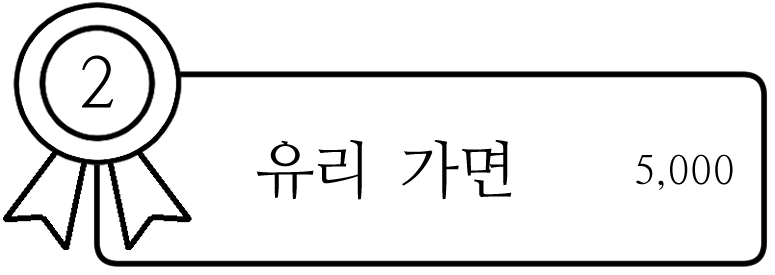
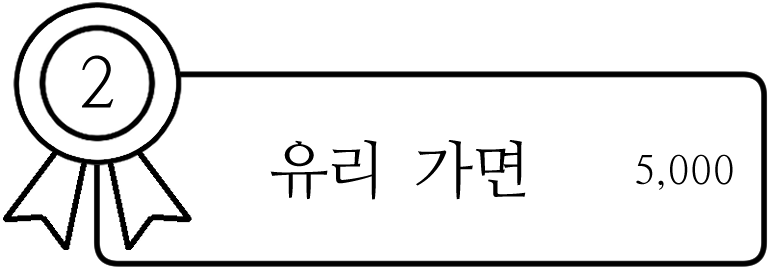
.

Changed region(s): [[0.3097, 0.4945, 0.4955, 0.7273], [0.5265, 0.4945, 0.6813, 0.7273]]

diff --git a/CSS/ranking.css b/CSS/ranking.css
@@ -50,13 +50,52 @@
 
 
 /* 메인 사각형 안 */
-.medal{
+.medal1, .medal2, .medal3, .medal4, .medal5, .medal6, .medal7, .medal8, .medal9, .medal10{
     width: 30em;
     height: 10.4em;
-    margin-top: 6em;
-    left: 0em;
-    position: relative;
+    left: center;
+    position: absolute;
     z-index: 8;
+}
+
+.medal1{
+    margin-top: 6em;
+}
+
+.medal2{
+    margin-top: 17em;
+}
+
+.medal3{
+    margin-top: 28em;
+}
+
+.medal4{
+    margin-top: 39em;
+}
+
+.medal5{
+    margin-top: 50em;
+}
+
+.medal6{
+    margin-top: 61em;
+}
+
+.medal7{
+    margin-top: 72em;
+}
+
+.medal8{
+    margin-top: 83em;
+}
+
+.medal9{
+    margin-top: 94em;
+}
+
+.medal10{
+    margin-top: 105em;
 }
 
 /* 폰트 */
@@ -86,7 +125,7 @@
 .font3-1{
     font-family: 나눔명조;
     font-size: 1rem;
-    left: 40em;
+    left: 39.6em;
     top: 4.5em;
     display: inline;
     position: absolute;
@@ -216,6 +255,16 @@ input[id="menuicon"]:checked + label + div {
         left: 18.2em;
         top: 4.5em;
     }
+
+    .font3-1{
+        left: 34em;
+        top: 4.5em;
+    }
+    
+    .font3-2{
+        left: 43em;
+        top: 4.5em;
+    }
 }
 
 @media (max-width: 1290px){
@@ -234,6 +283,11 @@ input[id="menuicon"]:checked + label + div {
         top: 2em;
     }
 
+    .medal1, .medal2, .medal3, .medal4, .medal5, .medal6, .medal7, .medal8, .medal9, .medal10{
+        width: 26em;
+        height: auto;
+    }
+
     .font1{
         left: 7.6em;
     }
@@ -243,6 +297,8 @@ input[id="menuicon"]:checked + label + div {
         left: 16.7em;
         top: 4.5em;
     }
+
+    
 
 }
 
@@ -281,6 +337,16 @@ input[id="menuicon"]:checked + label + div {
         left: 15.3em;
         top: 4.5em;
     }
+
+    .font3-1{
+        left: 32em;
+        top: 4.5em;
+    }
+    
+    .font3-2{
+        left: 41em;
+        top: 4.5em;
+    }
     
 }
 
@@ -316,6 +382,16 @@ input[id="menuicon"]:checked + label + div {
     .font2{
         font-size: 1.7rem;
         left: 14.5em;
+        top: 4.5em;
+    }
+
+    .font3-1{
+        left: 30em;
+        top: 4.5em;
+    }
+    
+    .font3-2{
+        left: 38em;
         top: 4.5em;
     }
 }
@@ -356,6 +432,16 @@ input[id="menuicon"]:checked + label + div {
         top: 4.5em;
     }
 
+    .font3-1{
+        left: 28em;
+        top: 4.5em;
+    }
+    
+    .font3-2{
+        left: 36.5em;
+        top: 4.5em;
+    }
+
 }
 
 @media (max-width: 980px){
@@ -383,6 +469,11 @@ input[id="menuicon"]:checked + label + div {
         top: 5em;
     }
 
+    .medal1, .medal2, .medal3, .medal4, .medal5, .medal6, .medal7, .medal8, .medal9, .medal10{
+        width: 24em;
+        height: auto;
+    }
+
     .font1{
         font-size: 3.5rem;
         left: 6.3em;
@@ -392,6 +483,16 @@ input[id="menuicon"]:checked + label + div {
         font-size: 1.5rem;
         left: 13.5em;
         top: 4.9em;
+    }
+
+    .font3-1{
+        left: 25.7em;
+        top: 4.5em;
+    }
+    
+    .font3-2{
+        left: 33em;
+        top: 4.5em;
     }
 }
 
@@ -428,6 +529,16 @@ input[id="menuicon"]:checked + label + div {
         font-size: 1.5rem;
         left: 11em;
         top: 4.9em;
+    }
+
+    .font3-1{
+        left: 24em;
+        top: 4.5em;
+    }
+    
+    .font3-2{
+        left: 30.7em;
+        top: 4.5em;
     }
 
     input[id="menuicon"] + label{
@@ -487,6 +598,16 @@ input[id="menuicon"]:checked + label + div {
         left: 11.6em;
         top: 5.5em;
     }
+
+    .font3-1{
+        left: 21.5em;
+        top: 4.5em;
+    }
+    
+    .font3-2{
+        left: 29em;
+        top: 4.5em;
+    }
 }
 
 @media (max-width: 700px){
@@ -514,6 +635,11 @@ input[id="menuicon"]:checked + label + div {
         top: 6em;
     }
 
+    .medal1, .medal2, .medal3, .medal4, .medal5, .medal6, .medal7, .medal8, .medal9, .medal10{
+        width: 22em;
+        height: auto;
+    }
+
     .font1{
         font-size: 2.6rem;
         left: 5.3em;
@@ -524,6 +650,16 @@ input[id="menuicon"]:checked + label + div {
         font-size: 1.3rem;
         left: 8.9em;
         top: 5.5em;
+    }
+
+    .font3-1{
+        left: 18.5em;
+        top: 4.5em;
+    }
+    
+    .font3-2{
+        left: 25.3em;
+        top: 4.5em;
     }
 }
 
@@ -563,6 +699,16 @@ input[id="menuicon"]:checked + label + div {
         left: 7.1em;
         top: 5.5em;
     }
+
+    .font3-1{
+        left: 16em;
+        top: 4.5em;
+    }
+    
+    .font3-2{
+        left: 23em;
+        top: 4.5em;
+    }
 }
 
 @media (max-width: 500px){
@@ -597,6 +743,16 @@ input[id="menuicon"]:checked + label + div {
         font-size: 1.1rem;
         left: 7em;
         top: 6em;
+    }
+
+    .font3-1{
+        left: 13em;
+        top: 4.5em;
+    }
+    
+    .font3-2{
+        left: 19em;
+        top: 4.5em;
     }
 }
 

diff --git a/ranking.html b/ranking.html
@@ -34,8 +34,17 @@
                     <img src="images/rose2.png" class="rose2">
                     <div class="mainSquare">
                         <div class="font3-1">제목</div>
-                        <div class="font3-2">총발매수(~만)</div>
-                        <img src="images/medal1.png" class="medal">
+                        <div class="font3-2">총발매수(만)</div>
+                        <img src="images/mebal1.png" class="medal1">
+                        <img src="images/mebal2.png" class="medal2">
+                        <img src="images/mebal3.png" class="medal3">
+                        <img src="images/mebal4.png" class="medal4">
+                        <img src="images/mebal5.png" class="medal5">
+                        <img src="images/mebal6.png" class="medal6">
+                        <img src="images/mebal7.png" class="medal7">
+                        <img src="images/mebal8.png" class="medal8">
+                        <img src="images/mebal9.png" class="medal9">
+                        <img src="images/mebal10.png" class="medal10">
                     </div>
         </div>
     </div>
